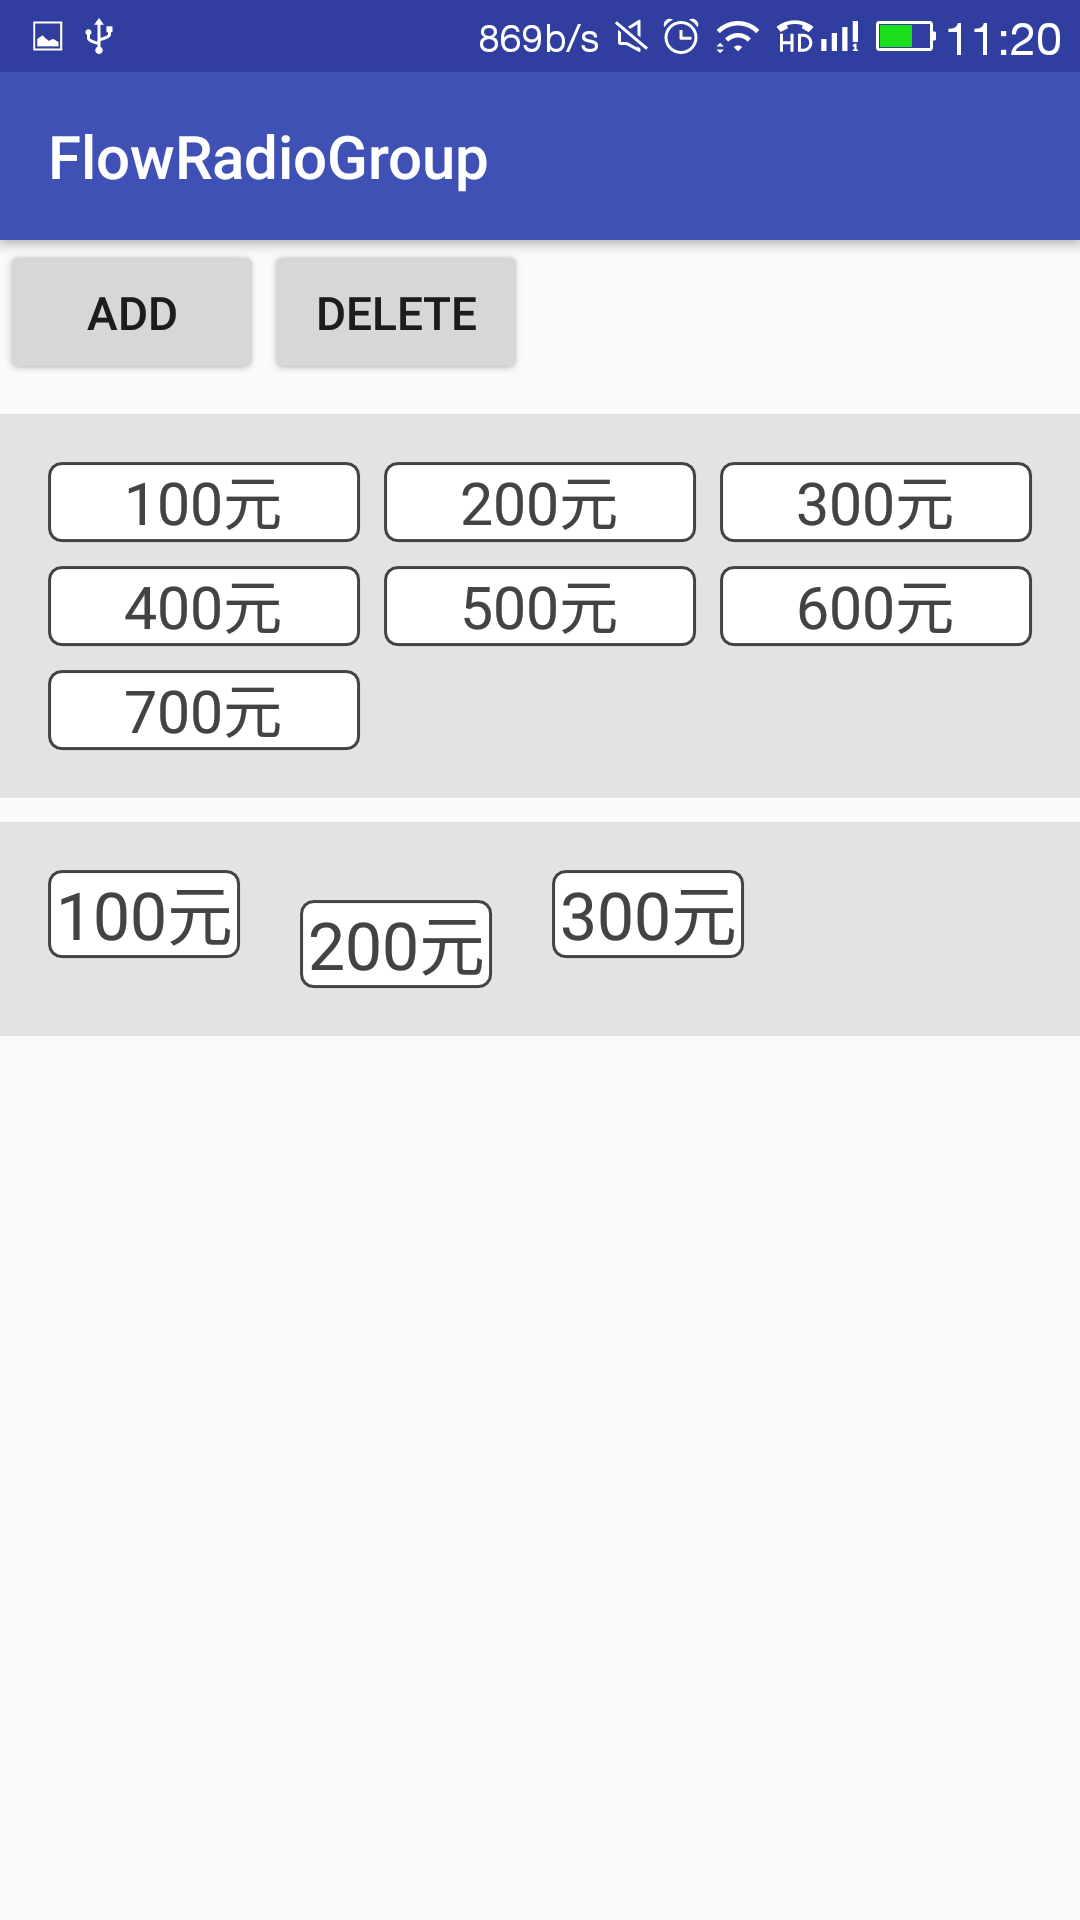
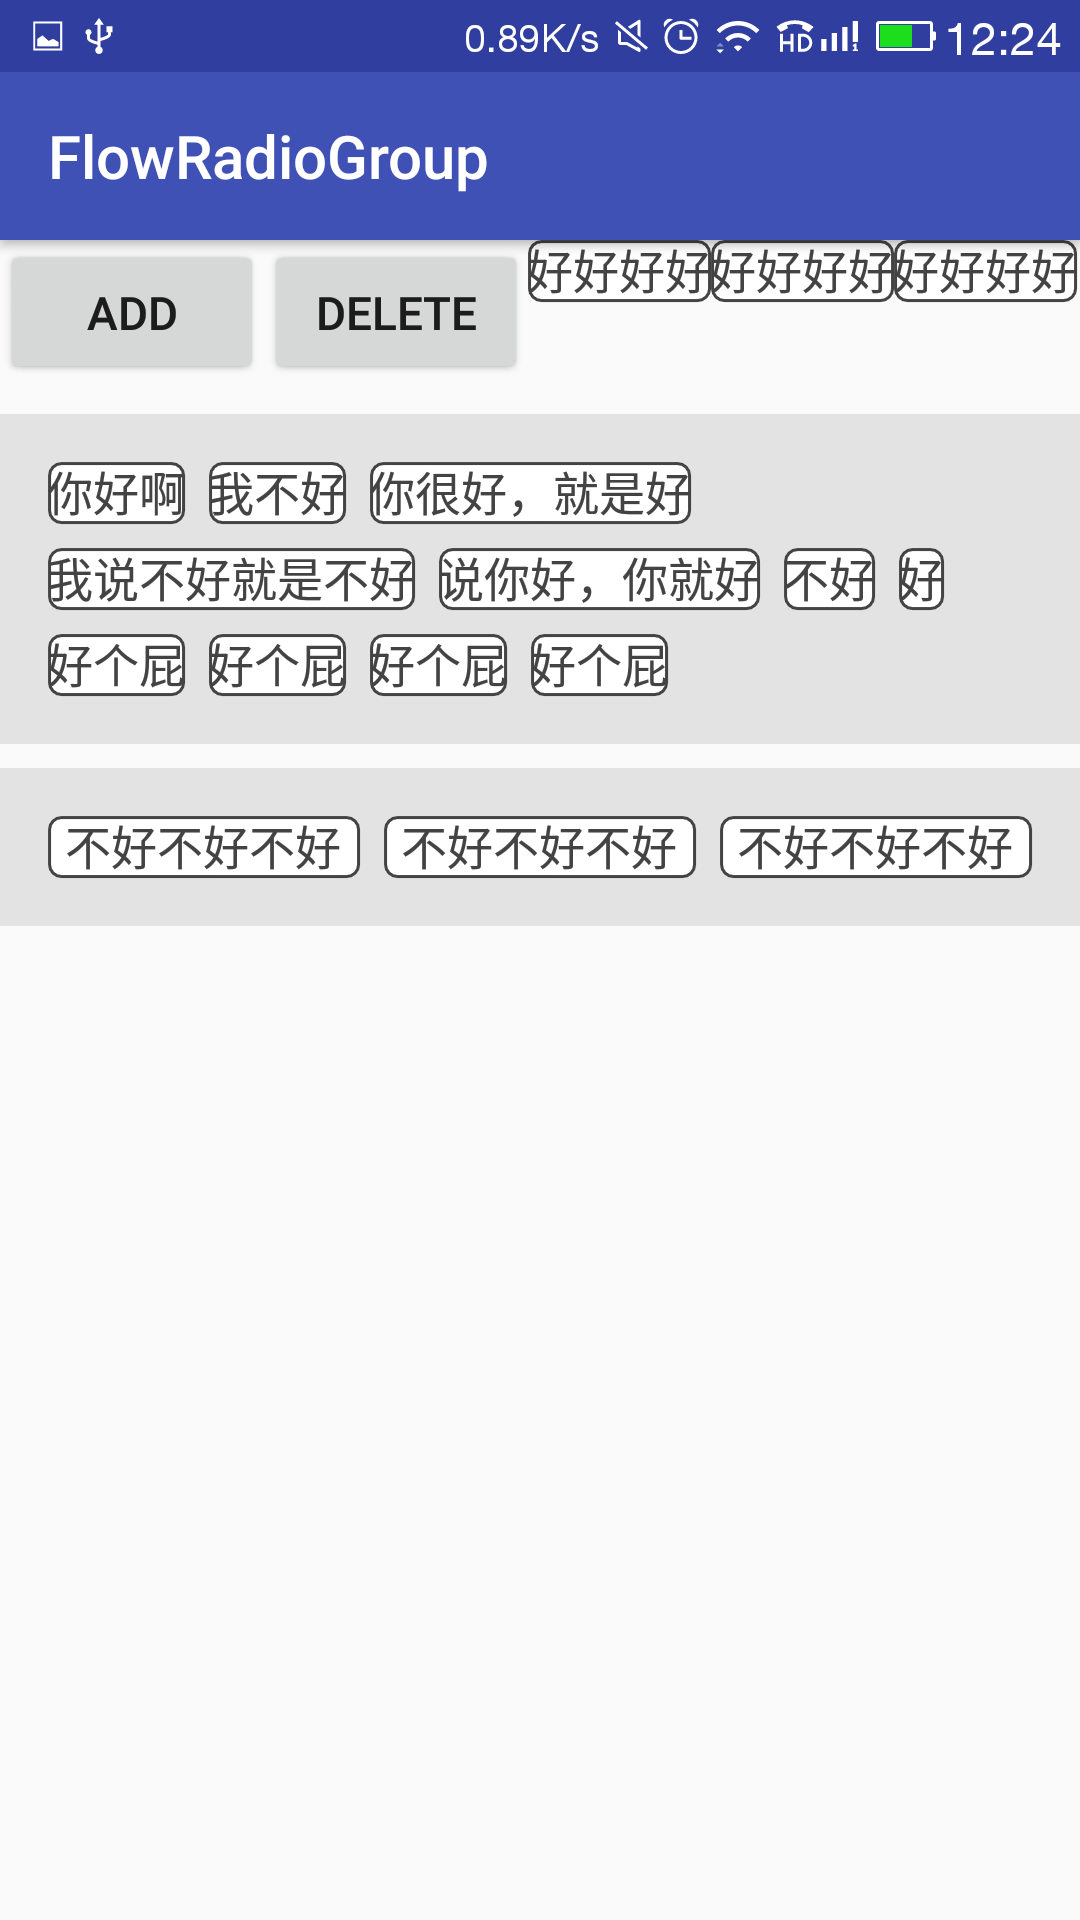
修改readme

diff --git a/app/src/main/java/com/warm/flowradiogroup/MainActivity.java b/app/src/main/java/com/warm/flowradiogroup/MainActivity.java
@@ -14,7 +14,6 @@ import com.warm.library.flow.FlowRadioGroup;
 
 import java.util.ArrayList;
 import java.util.List;
-import java.util.Locale;
 
 public class MainActivity extends AppCompatActivity implements View.OnClickListener {
     private FlowRadioGroup rg_money;
@@ -32,17 +31,18 @@ public class MainActivity extends AppCompatActivity implements View.OnClickListe
         bt_delete = (Button) findViewById(R.id.bt_delete);
         bt_add.setOnClickListener(this);
         bt_delete.setOnClickListener(this);
-        List<Integer> moneys = new ArrayList<>();
-        moneys.add(100);
-        moneys.add(200);
-        moneys.add(300);
-        moneys.add(400);
-        moneys.add(500);
-        moneys.add(600);
-        moneys.add(700);
+        List<String> tags = new ArrayList<>();
+        tags.add("你好啊");
+        tags.add("我不好");
+        tags.add("你很好，就是好");
+        tags.add("我说不好就是不好");
+        tags.add("说你好，你就好");
+        tags.add("不好");
+        tags.add("好");
+        tags.add("好个屁");
 
-        for (int i = 0; i < moneys.size(); i++) {
-          rg_money.addView(buildButton(moneys.get(i)));
+        for (int i = 0; i < tags.size(); i++) {
+          rg_money.addView(buildButton(tags.get(i)));
 
         }
     }
@@ -58,18 +58,18 @@ public class MainActivity extends AppCompatActivity implements View.OnClickListe
     }
 
     private void add() {
-        flow.addView(buildButton(100));
-        rg_money.addView(buildButton(100));
-        radio.addView(buildButton(100));
+        flow.addView(buildButton("好好好好"));
+        rg_money.addView(buildButton("好个屁"));
+        radio.addView(buildButton("不好不好不好"));
     }
 
-    private RadioButton buildButton(int money) {
+    private RadioButton buildButton(String tag) {
         RadioButton rb = new RadioButton(this);
         rb.setBackgroundResource(R.drawable.bg_profit_rg);
         rb.setButtonDrawable(new ColorDrawable(ContextCompat.getColor(this, android.R.color.transparent)));
-        rb.setTextSize(18);
+        rb.setTextSize(14);
         rb.setGravity(Gravity.CENTER);
-        rb.setText(String.format(Locale.CHINA, "%d元", money));
+        rb.setText( tag);
         rb.setTextColor(ContextCompat.getColorStateList(this, R.color.text_profit));
 //        rb.setLayoutParams(new FlowRadioGroup.LayoutParams(DisplayUtil.dp2px(this, 56), DisplayUtil.dp2px(this, 24)));
         return rb;
